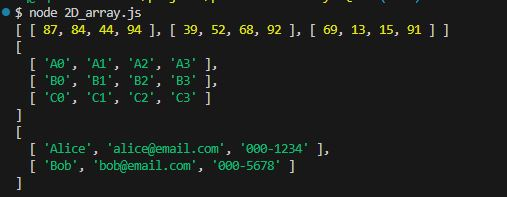
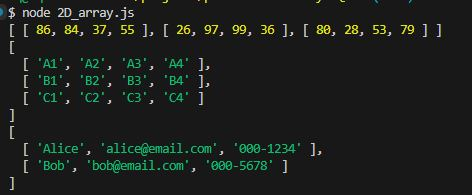
update the code

diff --git a/2D_array.js b/2D_array.js
@@ -27,7 +27,7 @@ let theaterSeating = Array(3);
 for (let i = 0; i < theaterSeating.length; i++) {
     theaterSeating[i] = []; 
     for (let k = 0; k < 4; k++){
-        theaterSeating[i][k] = String.fromCharCode("A".charCodeAt(0) + i) + `${k}`;
+        theaterSeating[i][k] = String.fromCharCode("A".charCodeAt(0) + i) + `${k + 1}`;
     }
 };
 console.log(theaterSeating);
